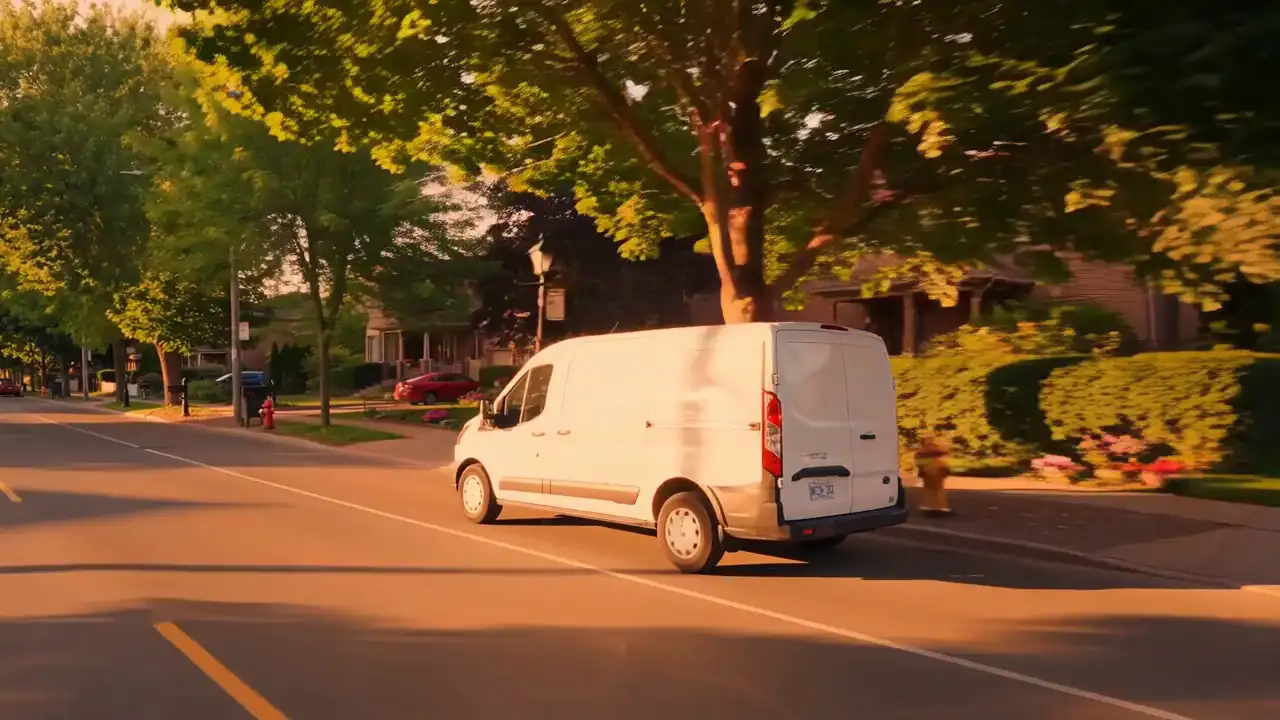
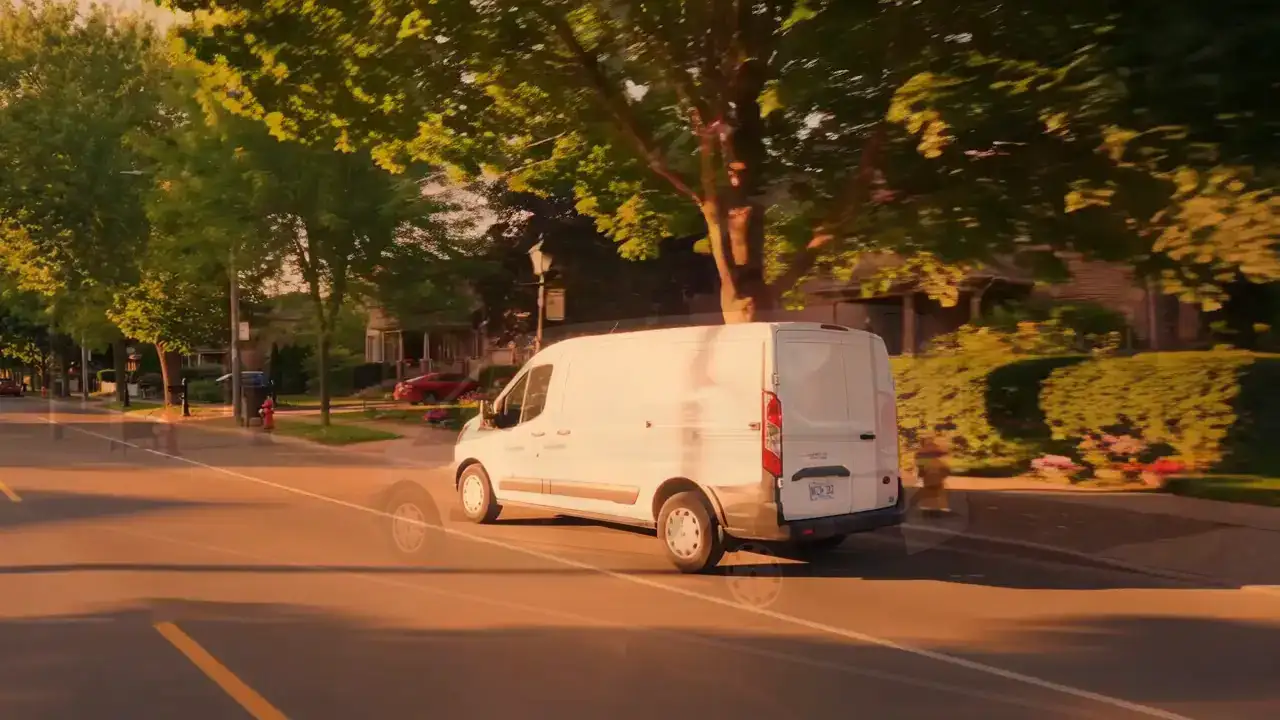
AY Courier v3.1: hero loop wrap dissolved in the frame sequence (jump 52.8 -> measured lower); she flagged the visible jump

diff --git a/ay-courier/index.html b/ay-courier/index.html
@@ -454,9 +454,9 @@ document.querySelectorAll('img[data-anim]').forEach(function(img){
 (function(){
   var el=document.getElementById('heroFrames'); if(!el) return;
   var N=100;
-  function fr(i){ return 'assets/hero-web/frame'+String(i+1).padStart(2,'0')+'.webp?v=9'; }
+  function fr(i){ return 'assets/hero-web/frame'+String(i+1).padStart(2,'0')+'.webp?v=10'; }
   var pre=[]; for(var i=0;i<N;i++){ var im=new Image(); im.src=fr(i); pre.push(im); }
-  var idx=0; el.style.backgroundImage="url('assets/hero-web/frame01.webp?v=9')"; el.style.backgroundSize='cover'; el.style.backgroundPosition='center';
+  var idx=0; el.style.backgroundImage="url('assets/hero-web/frame01.webp?v=10')"; el.style.backgroundSize='cover'; el.style.backgroundPosition='center';
   setInterval(function(){ idx=(idx+1)%N; el.style.backgroundImage='url('+fr(idx)+')'; },100);
 })();
 </script>
